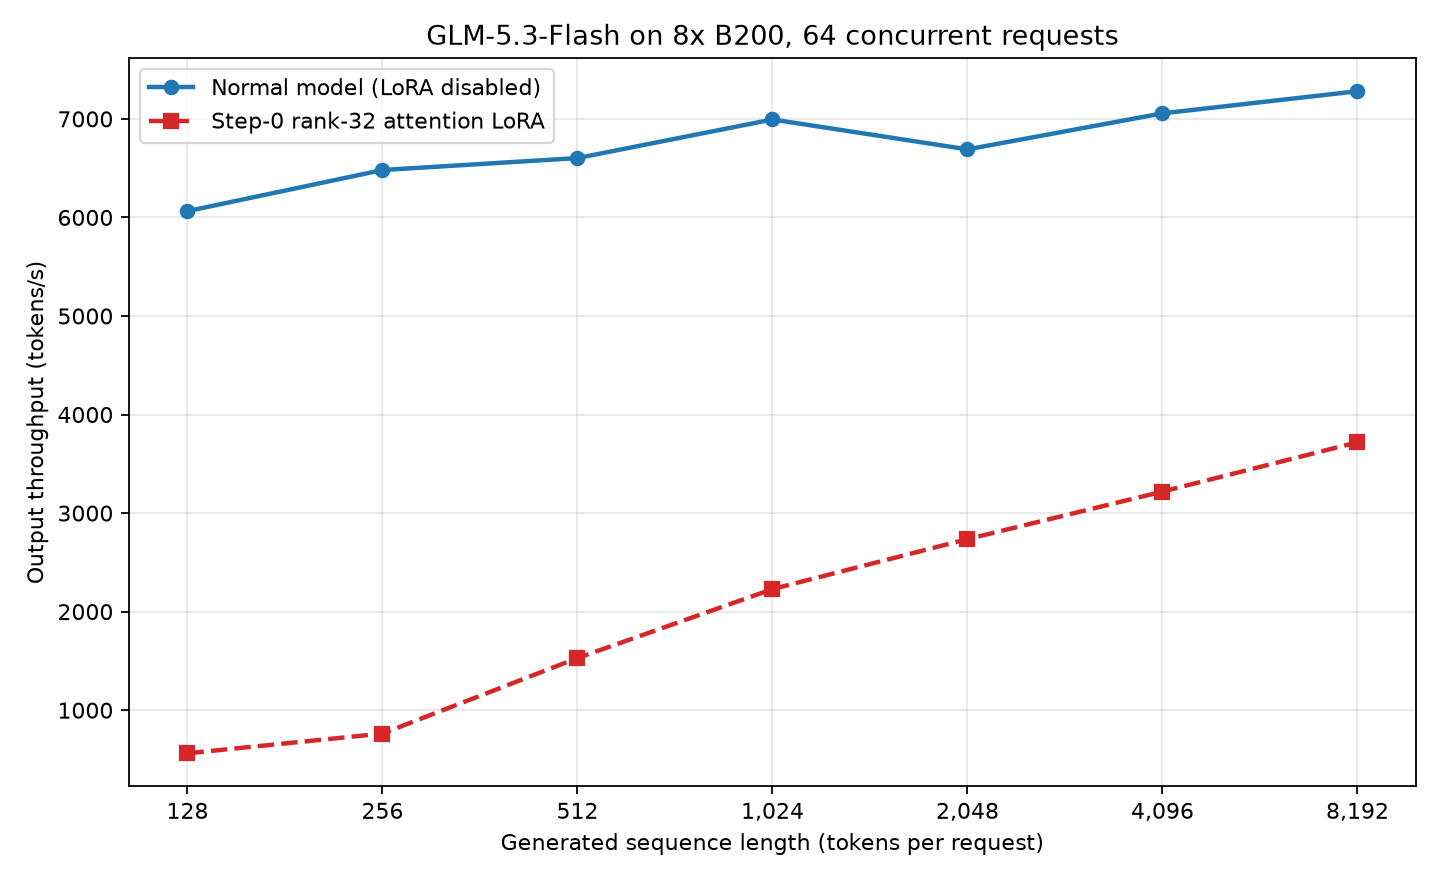
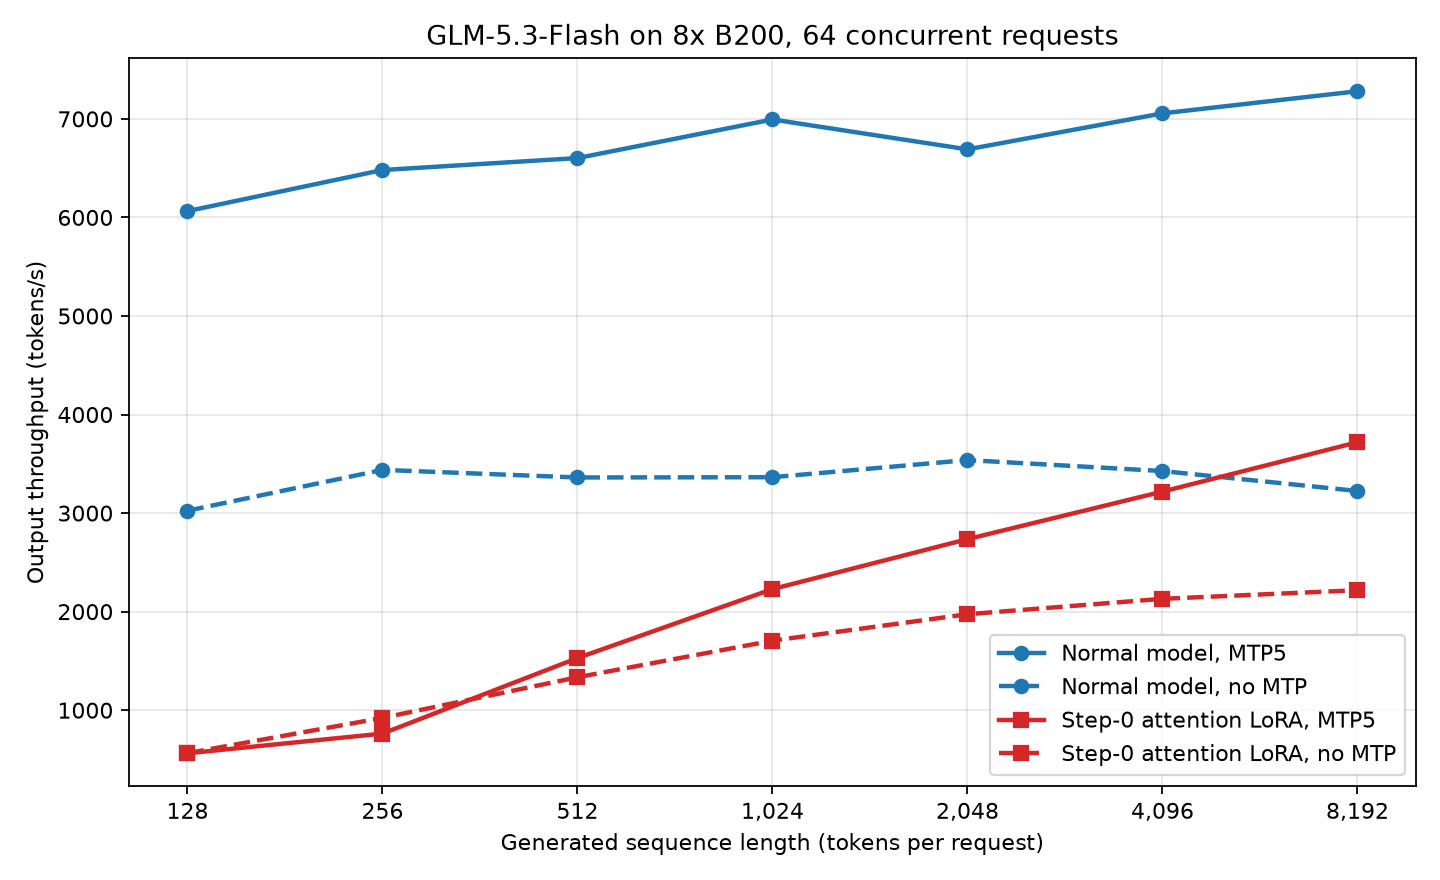
benchmarks: add GLM no-MTP LoRA curves
Run the normal model and the training-step-zero attention LoRA without speculative decoding, then add both results to the existing MTP5 plot.

Assisted-by: OpenAI Codex

diff --git a/benchmark-assets/pr-120/plot_step0_lora_curve.py b/benchmark-assets/pr-120/plot_step0_lora_curve.py
@@ -16,7 +16,7 @@ CONCURRENCY = 64
 ROOT = Path(__file__).parent
 
 
-def read_series(input_path: Path, model: str) -> list[dict[str, object]]:
+def read_series(input_path: Path, model: str, mode: str) -> list[dict[str, object]]:
     rows = [json.loads(line) for line in input_path.read_text().splitlines() if line]
     rows = [
         row
@@ -44,6 +44,7 @@ def read_series(input_path: Path, model: str) -> list[dict[str, object]]:
     return [
         {
             "request_model": model,
+            "mode": mode,
             "sequence_length": length,
             "median_output_tokens_per_second": round(
                 statistics.median(grouped[length]), 2
@@ -57,10 +58,25 @@ def read_series(input_path: Path, model: str) -> list[dict[str, object]]:
 
 def main() -> None:
     summary = [
-        *read_series(ROOT / "glm-3f712-ep8-mtp5-base.jsonl", "glm-5.3-flash"),
+        *read_series(
+            ROOT / "glm-3f712-ep8-mtp5-base.jsonl",
+            "glm-5.3-flash",
+            "MTP5",
+        ),
         *read_series(
             ROOT / "glm-3f712-ep8-mtp5-step0-lora.jsonl",
             "step0-lora-r32",
+            "MTP5",
+        ),
+        *read_series(
+            ROOT / "glm-3f712-ep8-no-mtp-base.jsonl",
+            "glm-5.3-flash",
+            "no MTP",
+        ),
+        *read_series(
+            ROOT / "glm-3f712-ep8-no-mtp-step0-lora.jsonl",
+            "step0-lora-r32",
+            "no MTP",
         ),
     ]
 
@@ -72,23 +88,45 @@ def main() -> None:
         writer.writerows(summary)
 
     plt.figure(figsize=(9, 5.5))
-    for model, label, color, linestyle, marker in (
+    for model, mode, label, color, linestyle, marker in (
         (
             "glm-5.3-flash",
-            "Normal model (LoRA disabled)",
+            "MTP5",
+            "Normal model, MTP5",
             "tab:blue",
             "-",
             "o",
         ),
         (
+            "glm-5.3-flash",
+            "no MTP",
+            "Normal model, no MTP",
+            "tab:blue",
+            "--",
+            "o",
+        ),
+        (
             "step0-lora-r32",
-            "Step-0 rank-32 attention LoRA",
+            "MTP5",
+            "Step-0 attention LoRA, MTP5",
+            "tab:red",
+            "-",
+            "s",
+        ),
+        (
+            "step0-lora-r32",
+            "no MTP",
+            "Step-0 attention LoRA, no MTP",
             "tab:red",
             "--",
             "s",
         ),
     ):
-        model_rows = [row for row in summary if row["request_model"] == model]
+        model_rows = [
+            row
+            for row in summary
+            if row["request_model"] == model and row["mode"] == mode
+        ]
         plt.plot(
             [row["sequence_length"] for row in model_rows],
             [row["median_output_tokens_per_second"] for row in model_rows],
